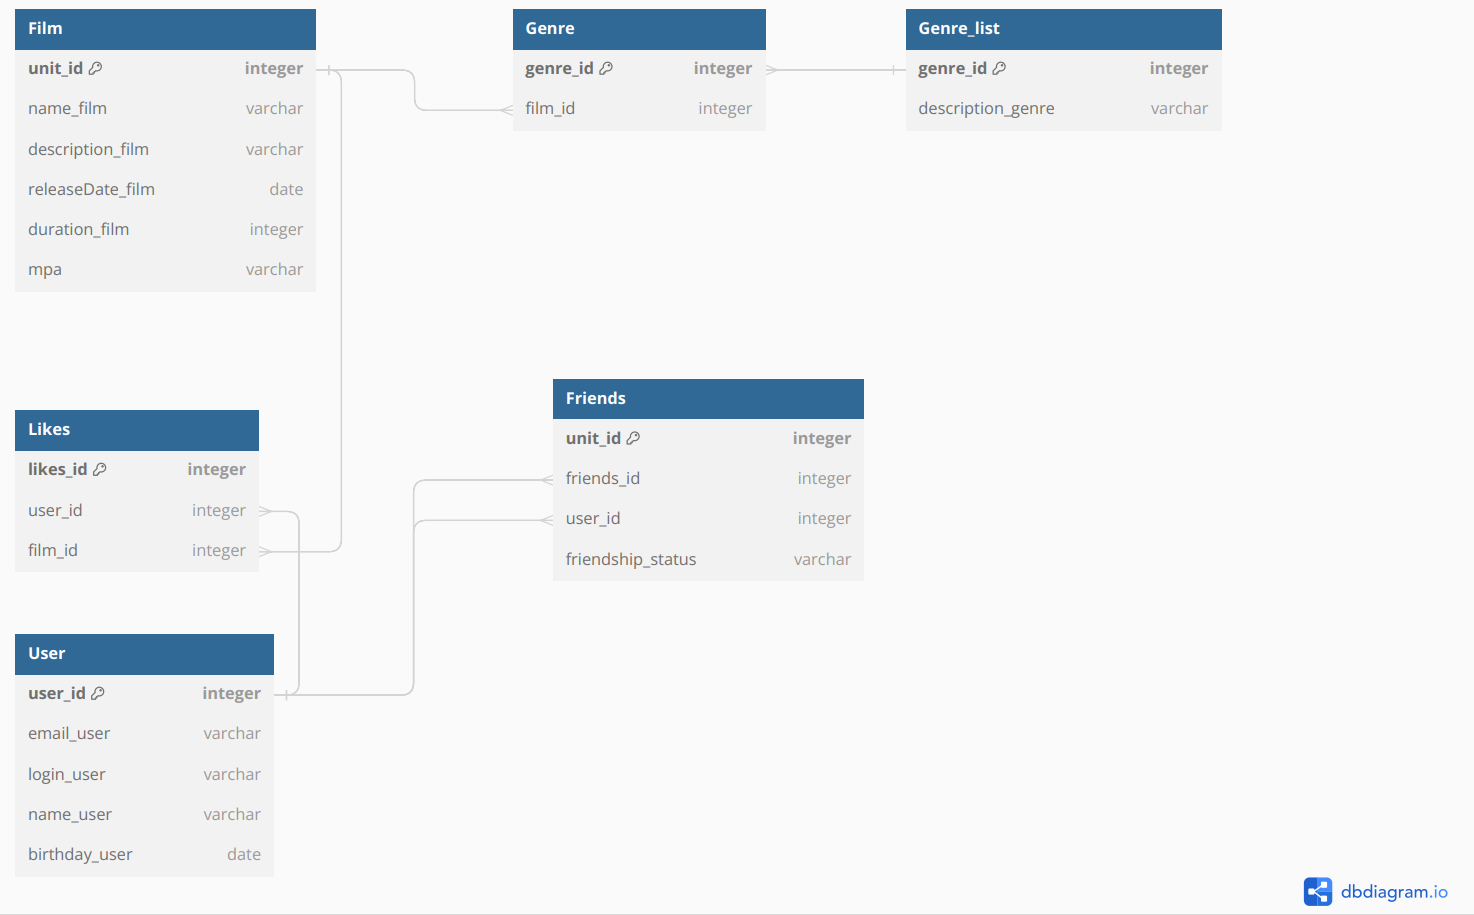
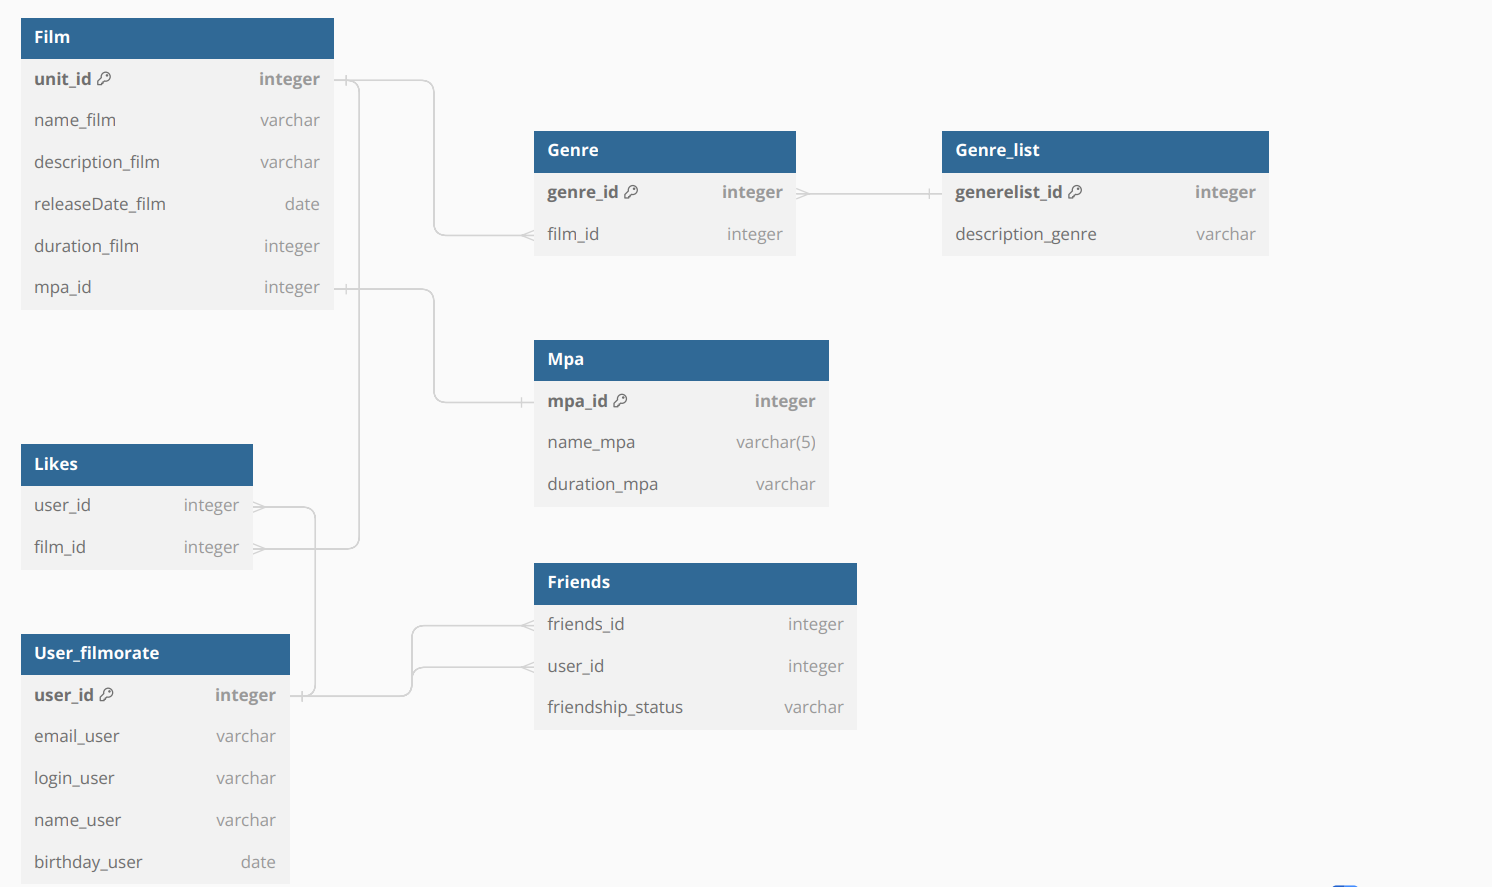
добавлен ДАО слой для работы с БД

diff --git a/README.md b/README.md
@@ -10,38 +10,44 @@ _Table Film {\
    description_film varchar [note: 'Описание фильма']\
    releaseDate_film date [note: 'Дата выхода фильма']\
    duration_film  integer [note: 'Длительность фильма в минутах']\
-   mpa varchar [note: 'Возрастное ограничение - Motion Picture Association, сокращённо МРА:\
-                G — у фильма нет возрастных ограничений,\
-                PG — детям рекомендуется смотреть фильм с родителями,\
-                PG-13 — детям до 13 лет просмотр не желателен,\
-                R — лицам до 17 лет просматривать фильм можно только в присутствии взрослого,\
-                NC-17 — лицам до 18 лет просмотр запрещён.']\
+   mpa_id integer [ref: - Mpa.mpa_id, note: 'G, PG, PG-13, R, NC-17,\ 
+   id Возрастное ограничение - Motion Picture Association, сокращённо МРА']\
+}_
+#### > Mpa
+_Table Mpa {\
+ mpa_id integer [primary key ]\
+ name_mpa varchar(5) [note: 'G, PG, PG-13, R, NC-17']\
+ duration_mpa varchar [note: 'Motion Picture Association, сокращённо МРА:\
+ G — у фильма нет возрастных ограничений,\
+ PG — детям рекомендуется смотреть фильм с родителями,\
+ PG-13 — детям до 13 лет просмотр не желателен,\
+ c,\
+ NC-17 — лицам до 18 лет просмотр запрещён.']\
 }_
 
 #### > Likes
 
-  _Table Likes {\
-  likes_id integer [primary key, note: 'Id лайка']\
-  user_id integer  [ref: > User.user_id, note: 'Id пользователя кто поставил лайк']\
+_Table Likes {\
+  user_id integer  [ref: > User_filmorate.user_id, note: 'Id пользователя кто поставил лайк']\
   film_id integer [ref: > Film.unit_id, note: 'Id фильма связан с таблицей Film']\
-  }_
+}_
 
 #### > Genre
 
-  _Table Genre {\
- genre_id integer [primary key, ref: > Genre_list.genre_id, note: 'Id жанра фильма связан с таблицей Genre_list']\
+_Table Genre {\
+  genre_id integer [primary key, ref: > Genre_list.genre_id, note: 'Id жанра фильма связан с таблицей Genre_list']\
   film_id integer [ref: > Film.unit_id, note: 'Id фильма связан с таблицей Film']\
 }_
 
 #### > Genre_list
-  _Table Genre_list {\
+_Table Genre_list {\
   genre_id integer [primary key, note: 'Id жанра фильма связан с таблицей Genre']\
   description_genre varchar [note: 'Описание жанра фильма - Комедия, Драма, Триллер, Документальный, Боевик']\
-  }_
+}_
 
 #### > User
 
-  _Table User {\
+_Table User_filmorate {\
   user_id integer [primary key, note: 'Id пользователя']\
   email_user varchar [note: 'email пользователя']\
   login_user varchar [note: 'Логин пользователя']\
@@ -51,10 +57,10 @@ _Table Film {\
 
 #### > Friends
 
-  _Table Friends {\
+_Table Friends {\
   unit_id integer [primary key, note: 'уникальный id пользователя и его друга']\
-  friends_id integer [ref: > User.user_id, note: 'id друга связан с таблицей User']\ 
-  user_id integer [ref: > User.user_id, note: 'id пользователя связан с таблицей User']\
+  friends_id integer [ref: > User_filmorate.user_id, note: 'id друга связан с таблицей User']\ 
+  user_id integer [ref: > User_filmorate.user_id, note: 'id пользователя связан с таблицей User']\
   friendship_status varchar [note: 'Статус дружбы - unconfirmed, confirmed']\
 }_
 
